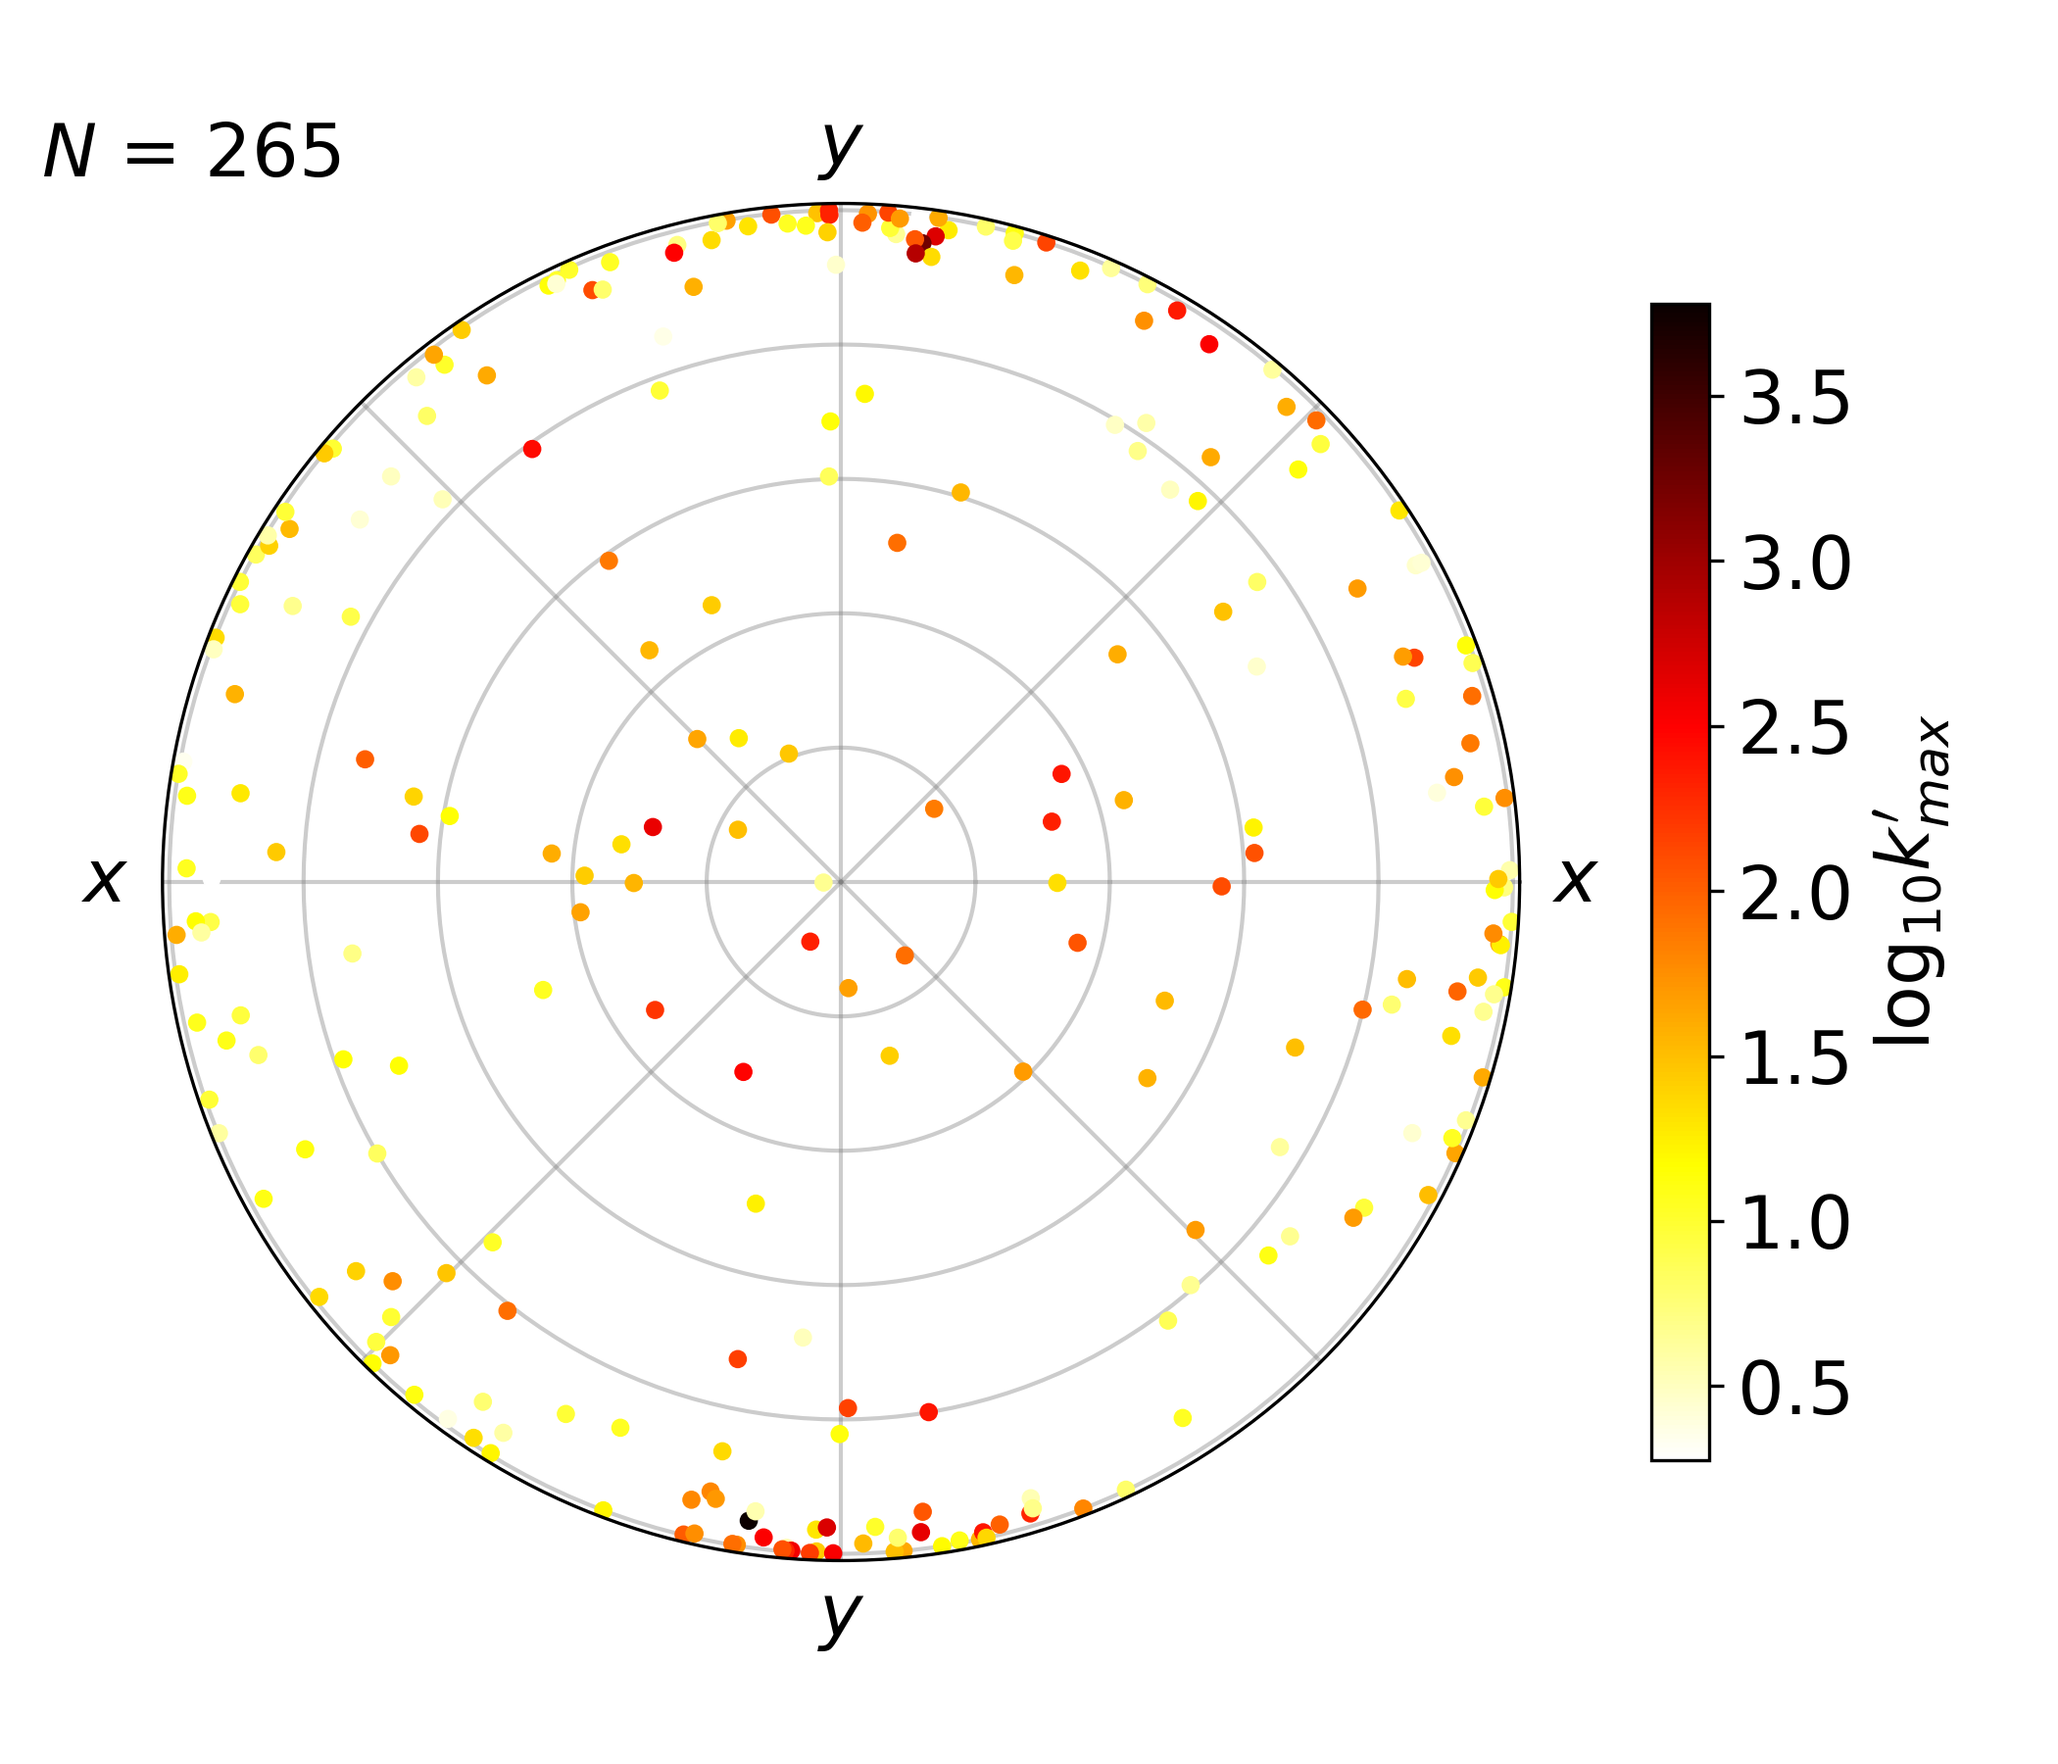
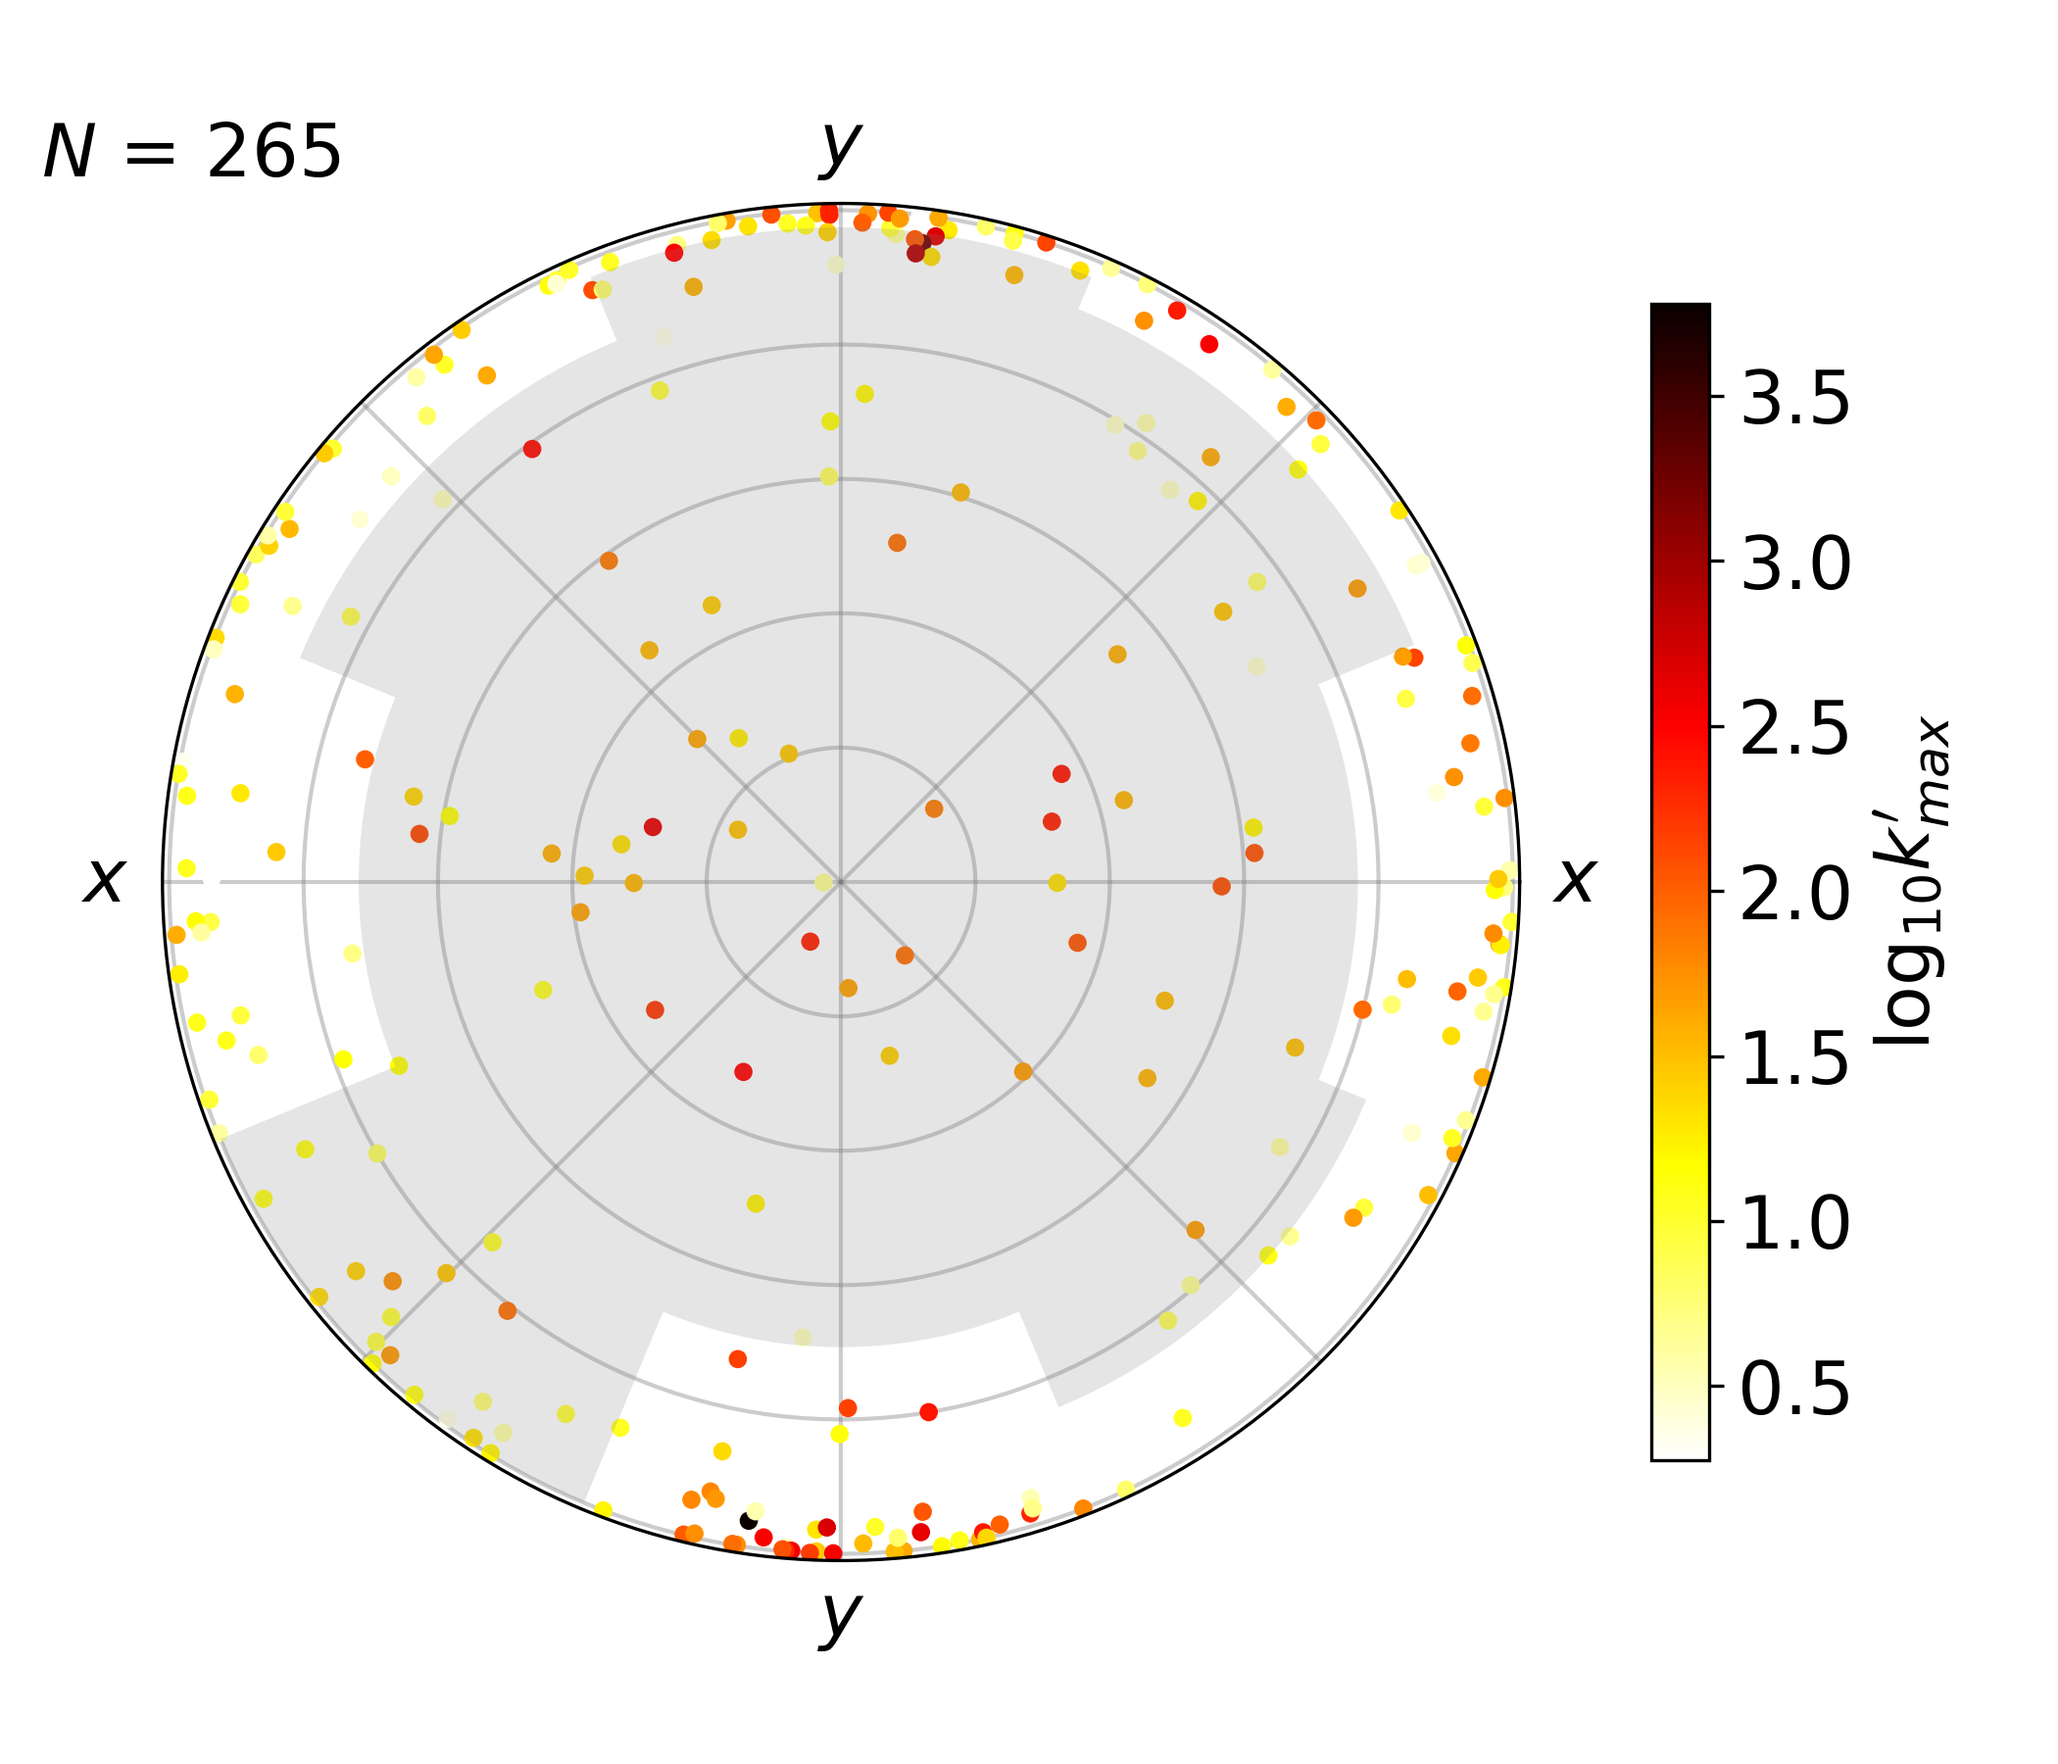
frequency bars

Changed region(s): [[0.0929, 0.1244, 0.681, 0.84]]

diff --git a/generate.py b/generate.py
@@ -2,6 +2,7 @@
 
 import json
 import os
+import sys
 import collections
 
 import numpy as np
@@ -58,16 +59,16 @@ if __name__ == "__main__":
     kmed_n = data.kmed / data.kmatrix
     kmin_n = data.kmin / data.kmatrix
     ah_prime = np.array(data.cprops['ah'])/(2*np.array(data.cprops['radius']))
-    print(data.theta_kmax)
 
-    if 0:
+    if 1:
         figtools.hemisphere.plot(
             data.theta_kmax,
             data.radii_kmax,
             np.log10(kmax_n),
             label=r"log$_{10}\mathit{k_{max}^\prime}$",
             cbformat="%.1f",
-            save_as=os.path.join(".", "figures", "hemisphere_kmax.png")
+            save_as=os.path.join(".", "figures", "hemisphere_kmax.png"),
+            nbars=8
         )
         figtools.hemisphere.plot(
             data.theta,
@@ -75,6 +76,7 @@ if __name__ == "__main__":
             ah_prime,
             label=r'$\mathit{a_{h}^\prime}$',
             cbformat='%.4f',
-            save_as=os.path.join(".", "figures", "hemisphere_ahprime.png")
+            save_as=os.path.join(".", "figures", "hemisphere_ahprime.png"),
+            nbars=9
         )
 

diff --git a/figtools/hemisphere.py b/figtools/hemisphere.py
@@ -43,6 +43,21 @@ def plot(
             if label:
                 cbr = fig.colorbar(cda, pad=0.075, shrink=0.75, format=cbformat)
                 cbr.set_label(label)
+        if nbars:
+            width_bars = 2.0 * np.pi / nbars
+            theta_bars = np.arange(0.0, 2*np.pi, 2*np.pi/nbars)
+            radii_bars = []
+            for i in range(nbars):
+                theta_start = width_bars * i
+                theta_end = width_bars * (i + 1)
+                where = np.where((theta > theta_start) & (theta <= theta_end))
+                count = len(where[0])
+                radii_bars.append(count)
+            radii_bars = np.array(radii_bars)
+            print(np.sum(radii_bars))
+            radii_bars = radii_bars / radii_bars.max()
+            radii_bars = radii_bars * radii.max()
+            ax.bar(theta_bars, radii_bars, width=width_bars, bottom=0.0, color='grey', alpha=0.2, zorder=2)
         if len(cprop) == 0 or as_marker:
             ax.scatter(theta, radii, s=60, c="k", marker="x", alpha=0.5, zorder=1)
     else:
